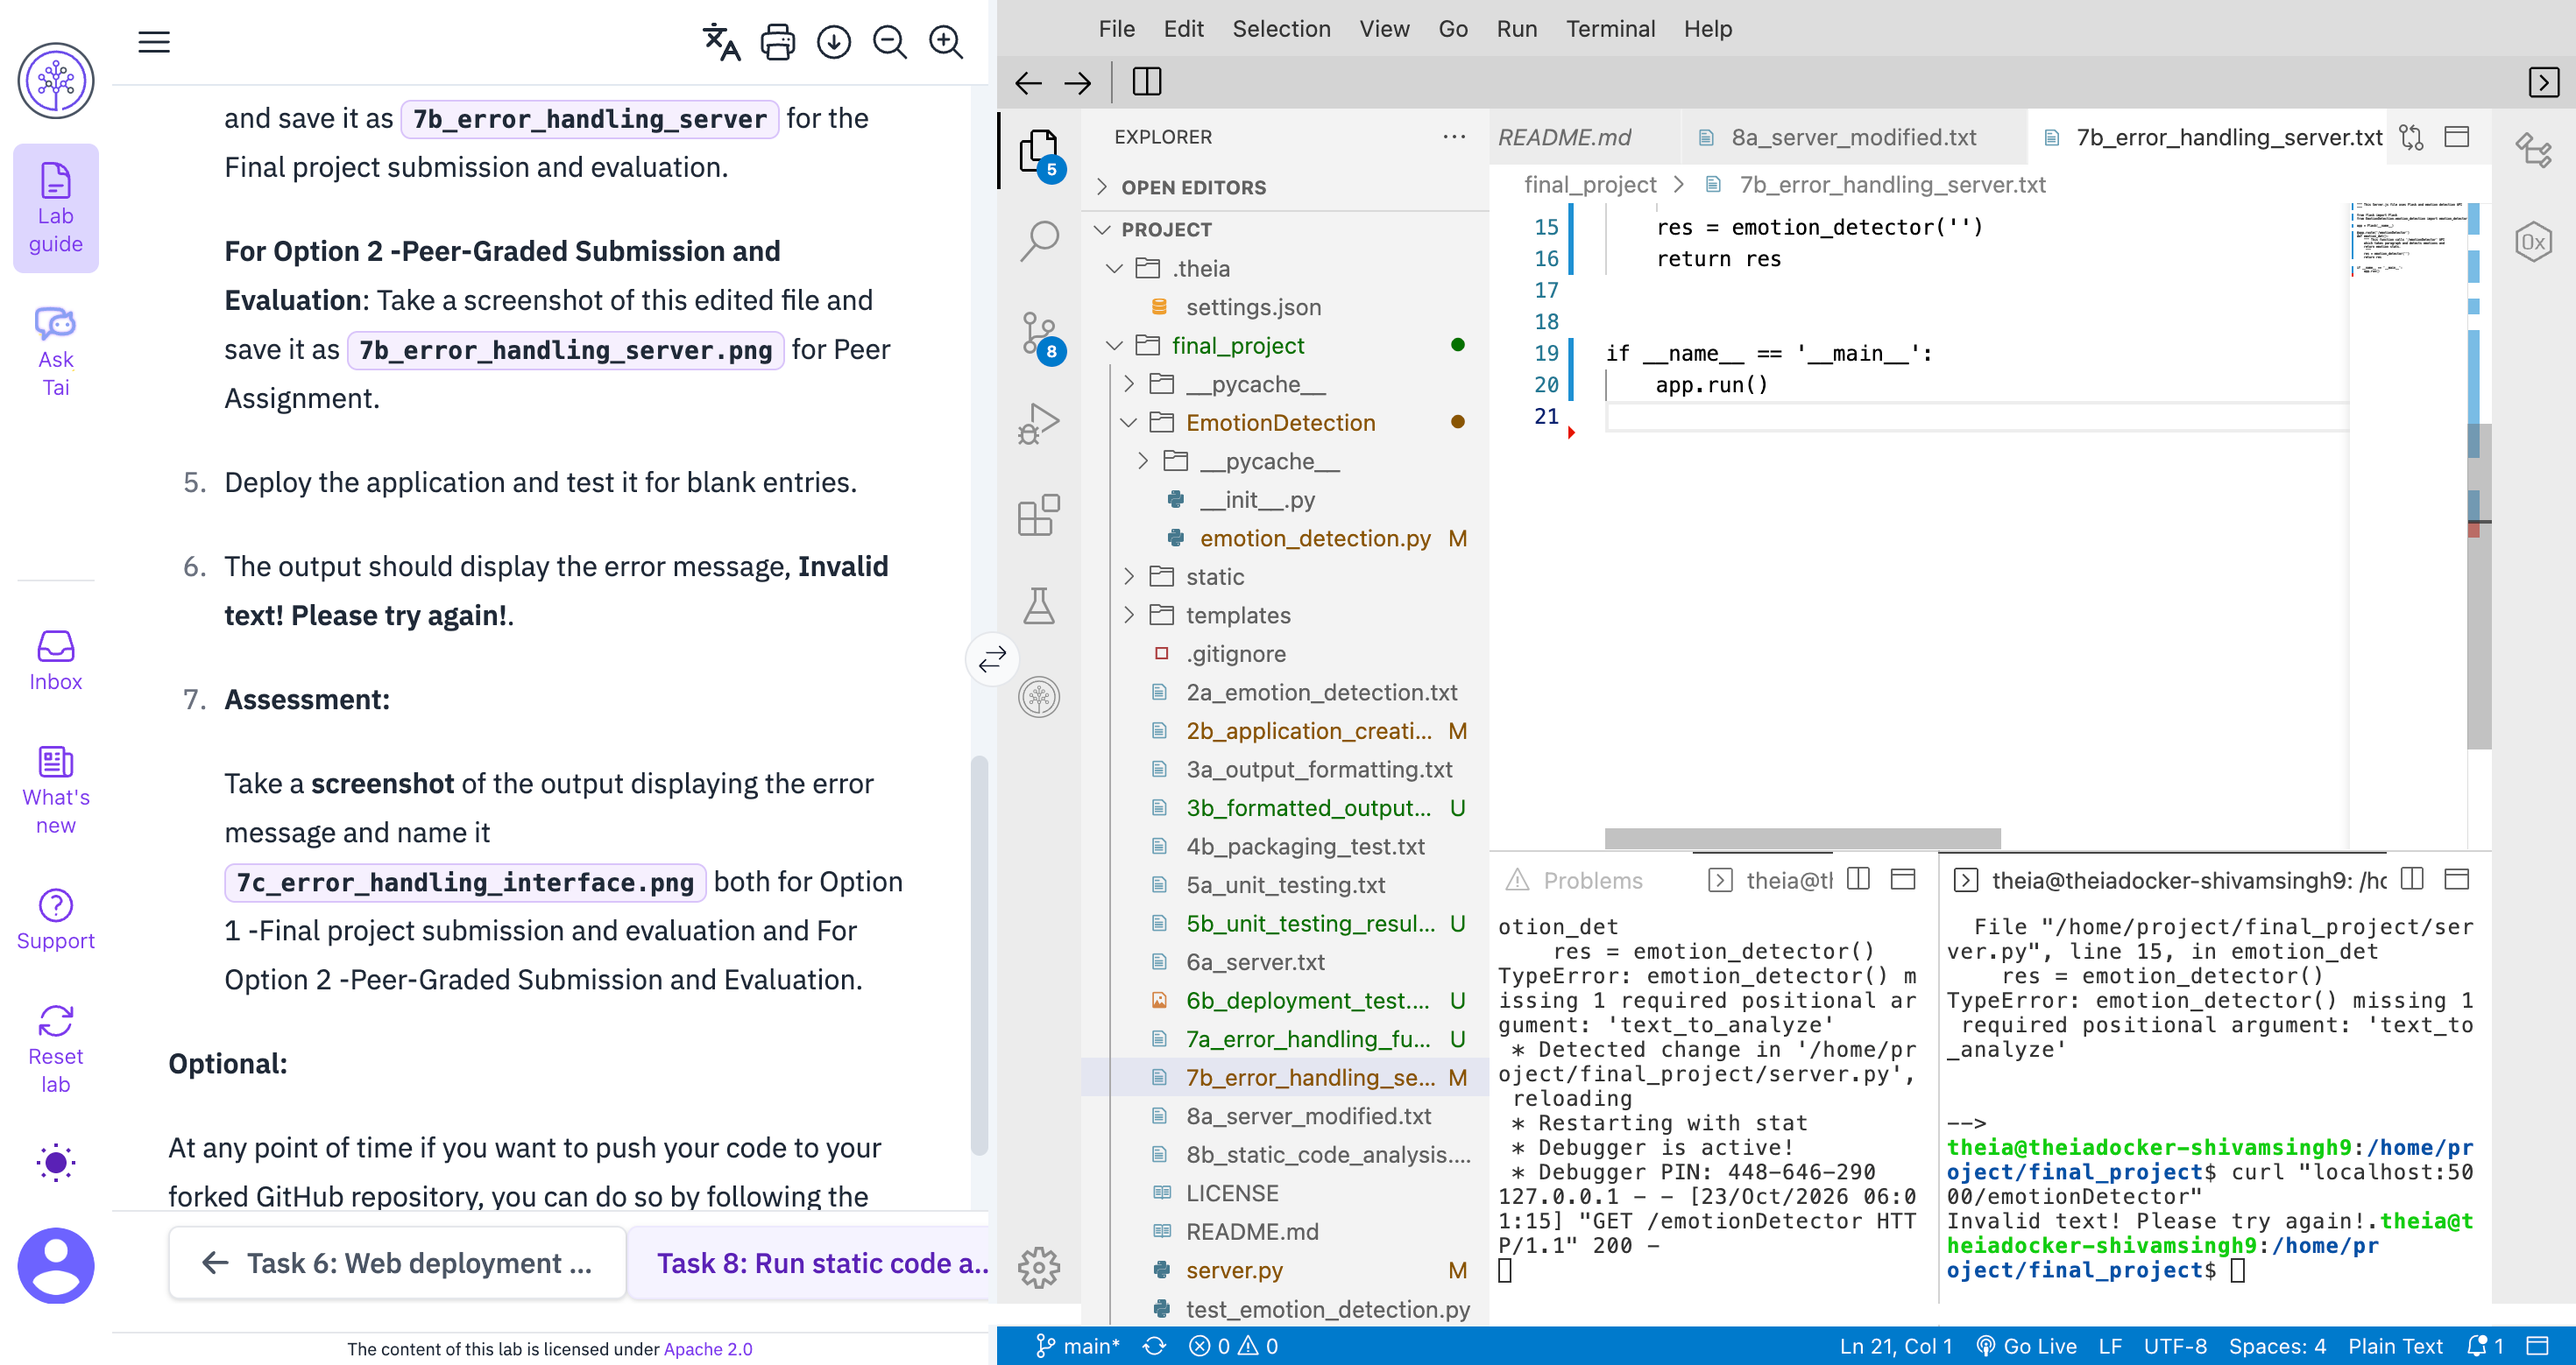
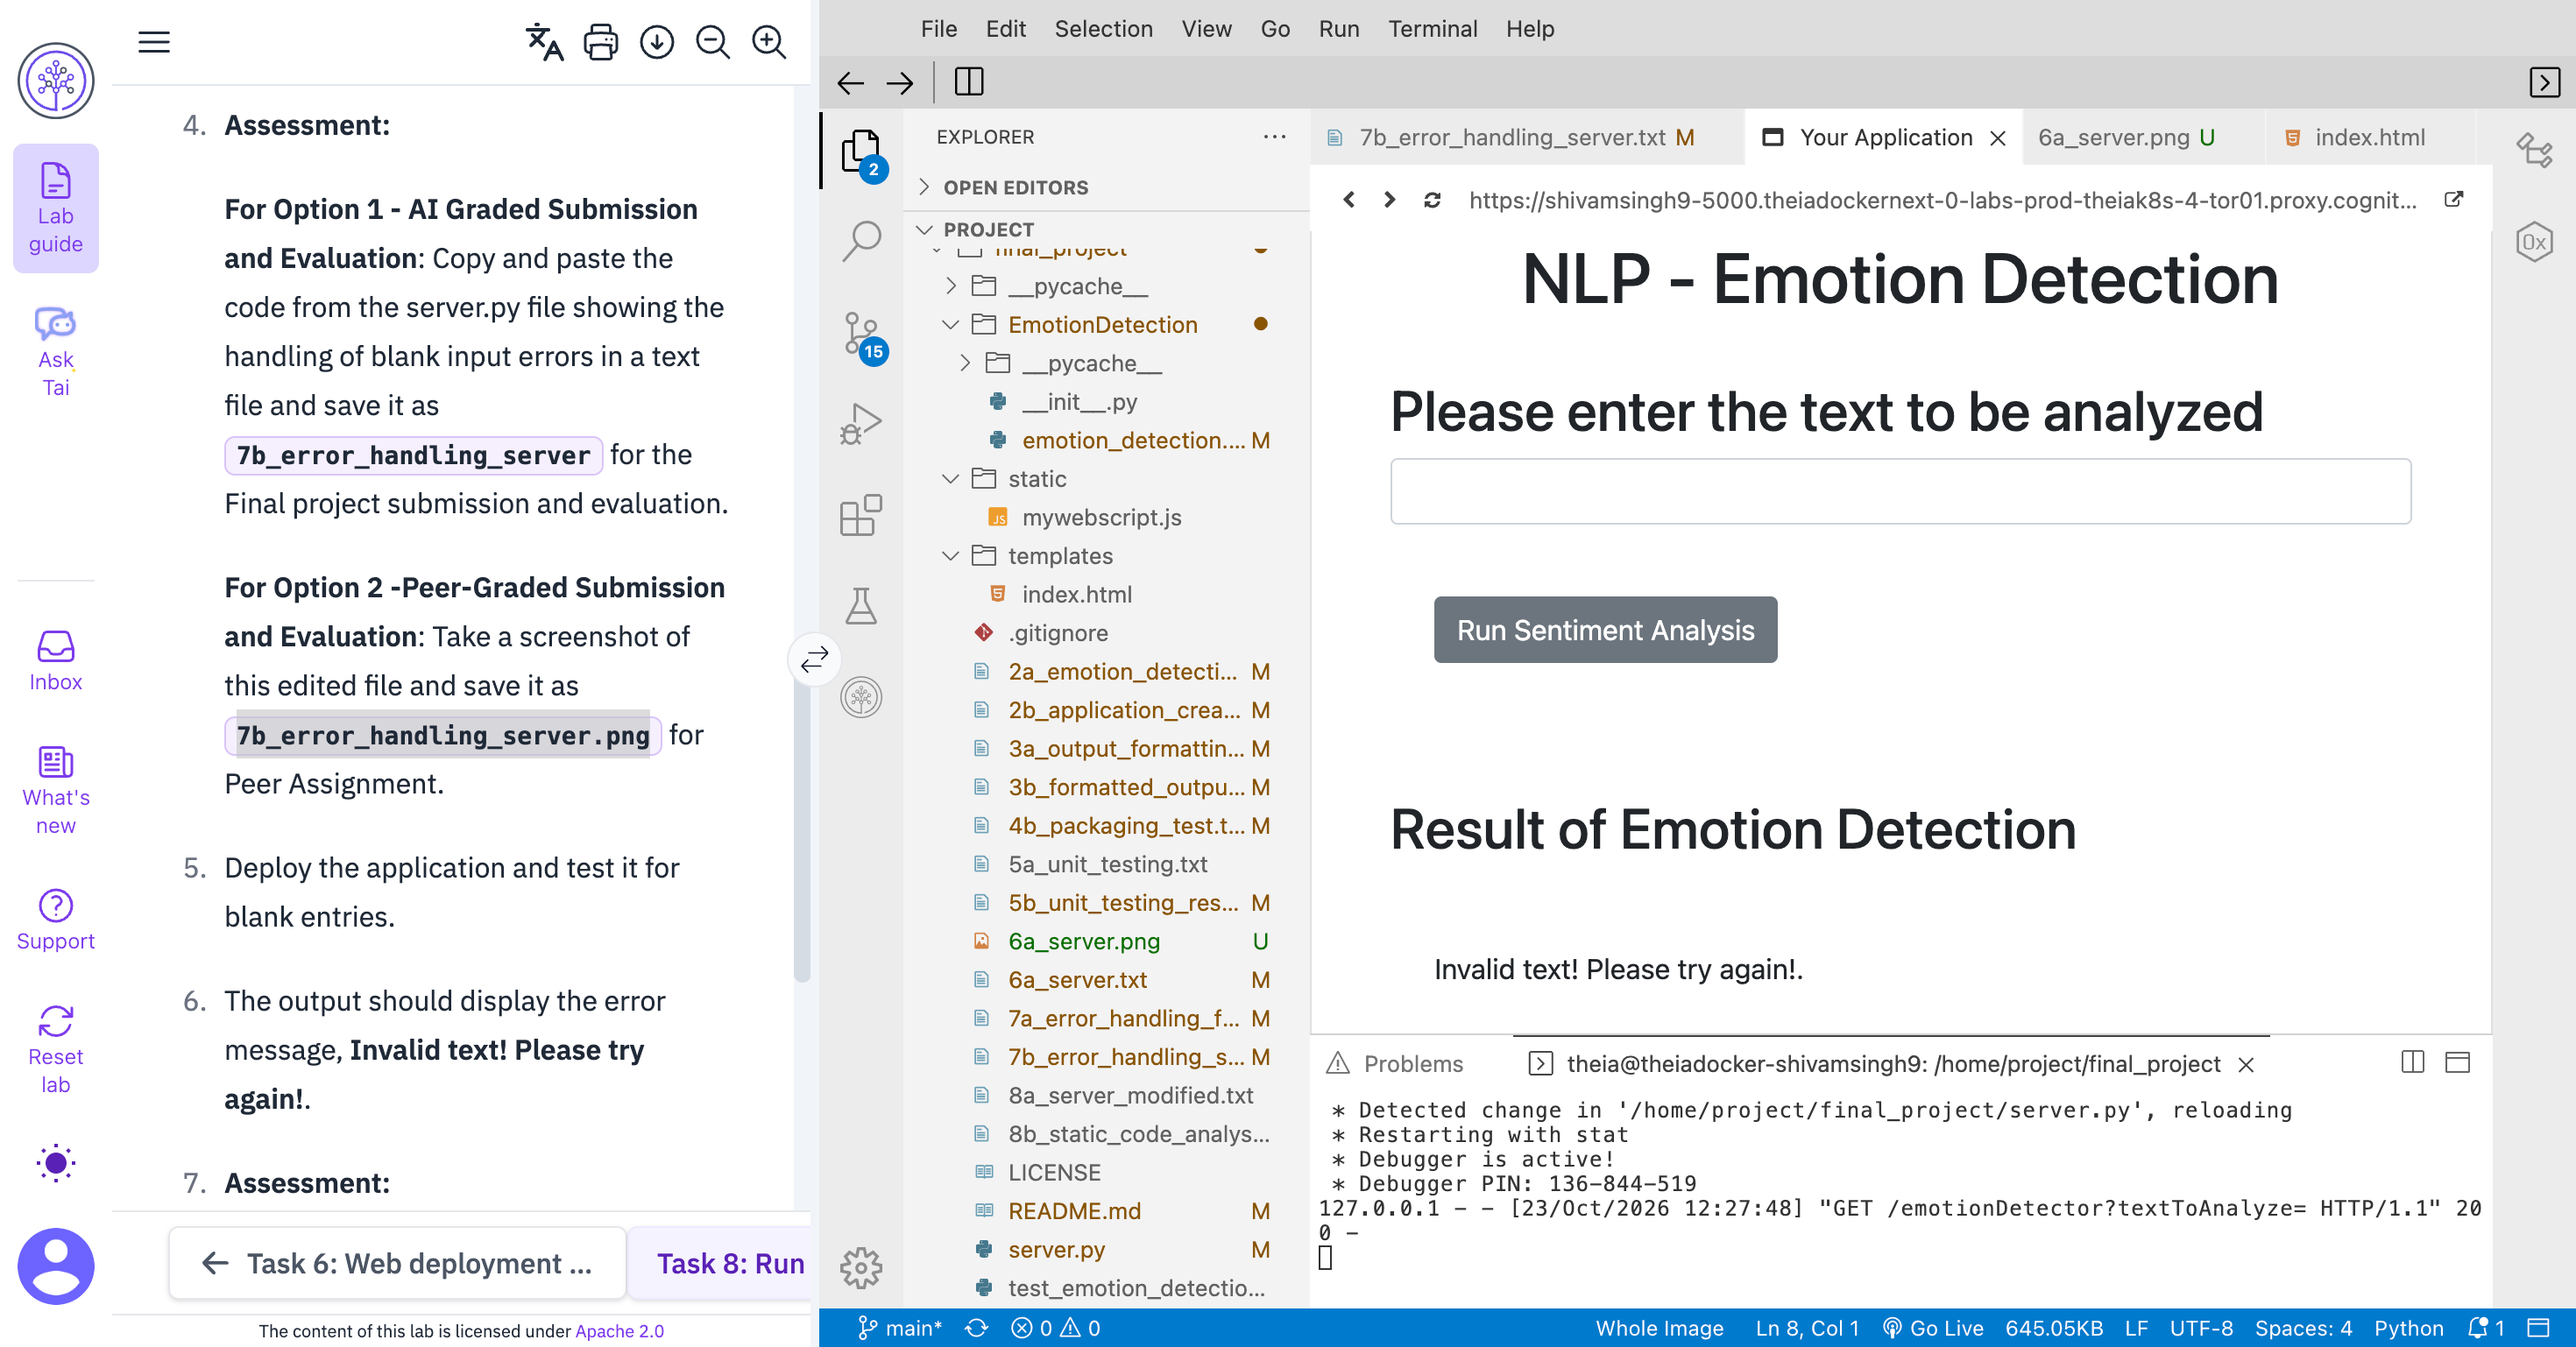
Final

diff --git a/EmotionDetection/emotion_detection.py b/EmotionDetection/emotion_detection.py
@@ -5,44 +5,25 @@ def emotion_detector(text_to_analyze):
     url= 'https://sn-watson-emotion.labs.skills.network/v1/watson.runtime.nlp.v1/NlpService/EmotionPredict'
     header= {"grpc-metadata-mm-model-id": "emotion_aggregated-workflow_lang_en_stock"}
     input_json= { "raw_document": { "text": text_to_analyze } }
-
-    if not text_to_analyze or not text_to_analyze.strip():
-        return 'Invalid text! Please try again!.'
     
+
     res = requests.post(url, headers=header, json=input_json ) 
+    
     if res.status_code == 200:
+    
         formatted_res = json.loads(res.text)
         emotions = formatted_res['emotionPredictions'][0]['emotion']
         max_emotion = max(emotions, key=emotions.get )
-        emotions['dominant_emoiton'] = max_emotion
+        emotions['dominant_emotion'] = max_emotion
 
-        if emotions['dominant_emoiton'] == None or emotions['dominant_emoiton'] == 'null':
-            return 'Invalid text! Please try again!.'
-        else:
-            return emotions
-    
-    elif res.status_code == 500:
-        emotions = {
-            "anger": None,
-            "disgust": None,
-            "dominant_emoiton": None,
-            "fear": None,
-            "joy": None,
-            "sadness": None
-        }
         return emotions
 
-
-    else:
-        emotions = {
-            "anger": None,
-            "disgust": None,
-            "dominant_emoiton": None,
-            "fear": None,
-            "joy": None,
-            "sadness": None
-        }
-        return emotions
-
-
-    
+    elif res.status_code == 400:
+        emotion_not_found = {
+        "anger": None, 
+        "disgust": None, 
+        "fear": None, 
+        "joy": None, 
+        "sadness": None, 
+        "dominant_emotion":None
+            }

diff --git a/server.py b/server.py
@@ -1,20 +1,52 @@
-""" This Server.js file uses Flask and emotion detection API
+"""
+Emotion Detection Server Application.  
+This module sets up a Flask backend endpoint that 
+analyzes text inputs by using the NLP 
+emotion detection microservice.
 """
 
-from flask import Flask
+from flask import Flask, request, render_template
 from EmotionDetection.emotion_detection import emotion_detector
 
 app = Flask(__name__)
 
 @app.route('/emotionDetector')
 def emotion_det():
-    """ This function calls '/emotionDetector' API
-    which takes paragraph and detects emotions and
-    return emotion stats.
-     """
-    res = emotion_detector('')
-    return res
+    """
+    This process examines the text string 
+    provided as a query parameter and delivers a 
+    comprehensive breakdown of the identified 
+    emotion values, including the primary emotion that stands out.
+    """
 
+    text_to_analyze = request.args.get('textToAnalyze')
+
+    if not text_to_analyze:
+        return 'Invalid text! Please try again!.'
+
+
+    res = emotion_detector(text_to_analyze)
+    anger = res['anger']
+    disgust = res['disgust']
+    fear = res['fear']
+    joy = res['joy']
+    sadness = res['sadness']
+    dominant_emotion = res['dominant_emotion']
+
+    if dominant_emotion is None:
+        return 'Invalid text! Please try again!.'
+
+    return (f"'anger': {anger}, 'disgust': {disgust},"
+            f"'fear': {fear}, 'joy': {joy} and 'sadness': {sadness}." 
+            f"The dominant emotion is {dominant_emotion}."
+    )
+
+@app.route('/')
+def index_page():
+    """
+    To render index.html home page
+    """
+    return render_template('index.html')
 
 if __name__ == '__main__':
     app.run()

diff --git a/README.md b/README.md
@@ -1,1 +1,1 @@
-# Final Project
+# Final project
